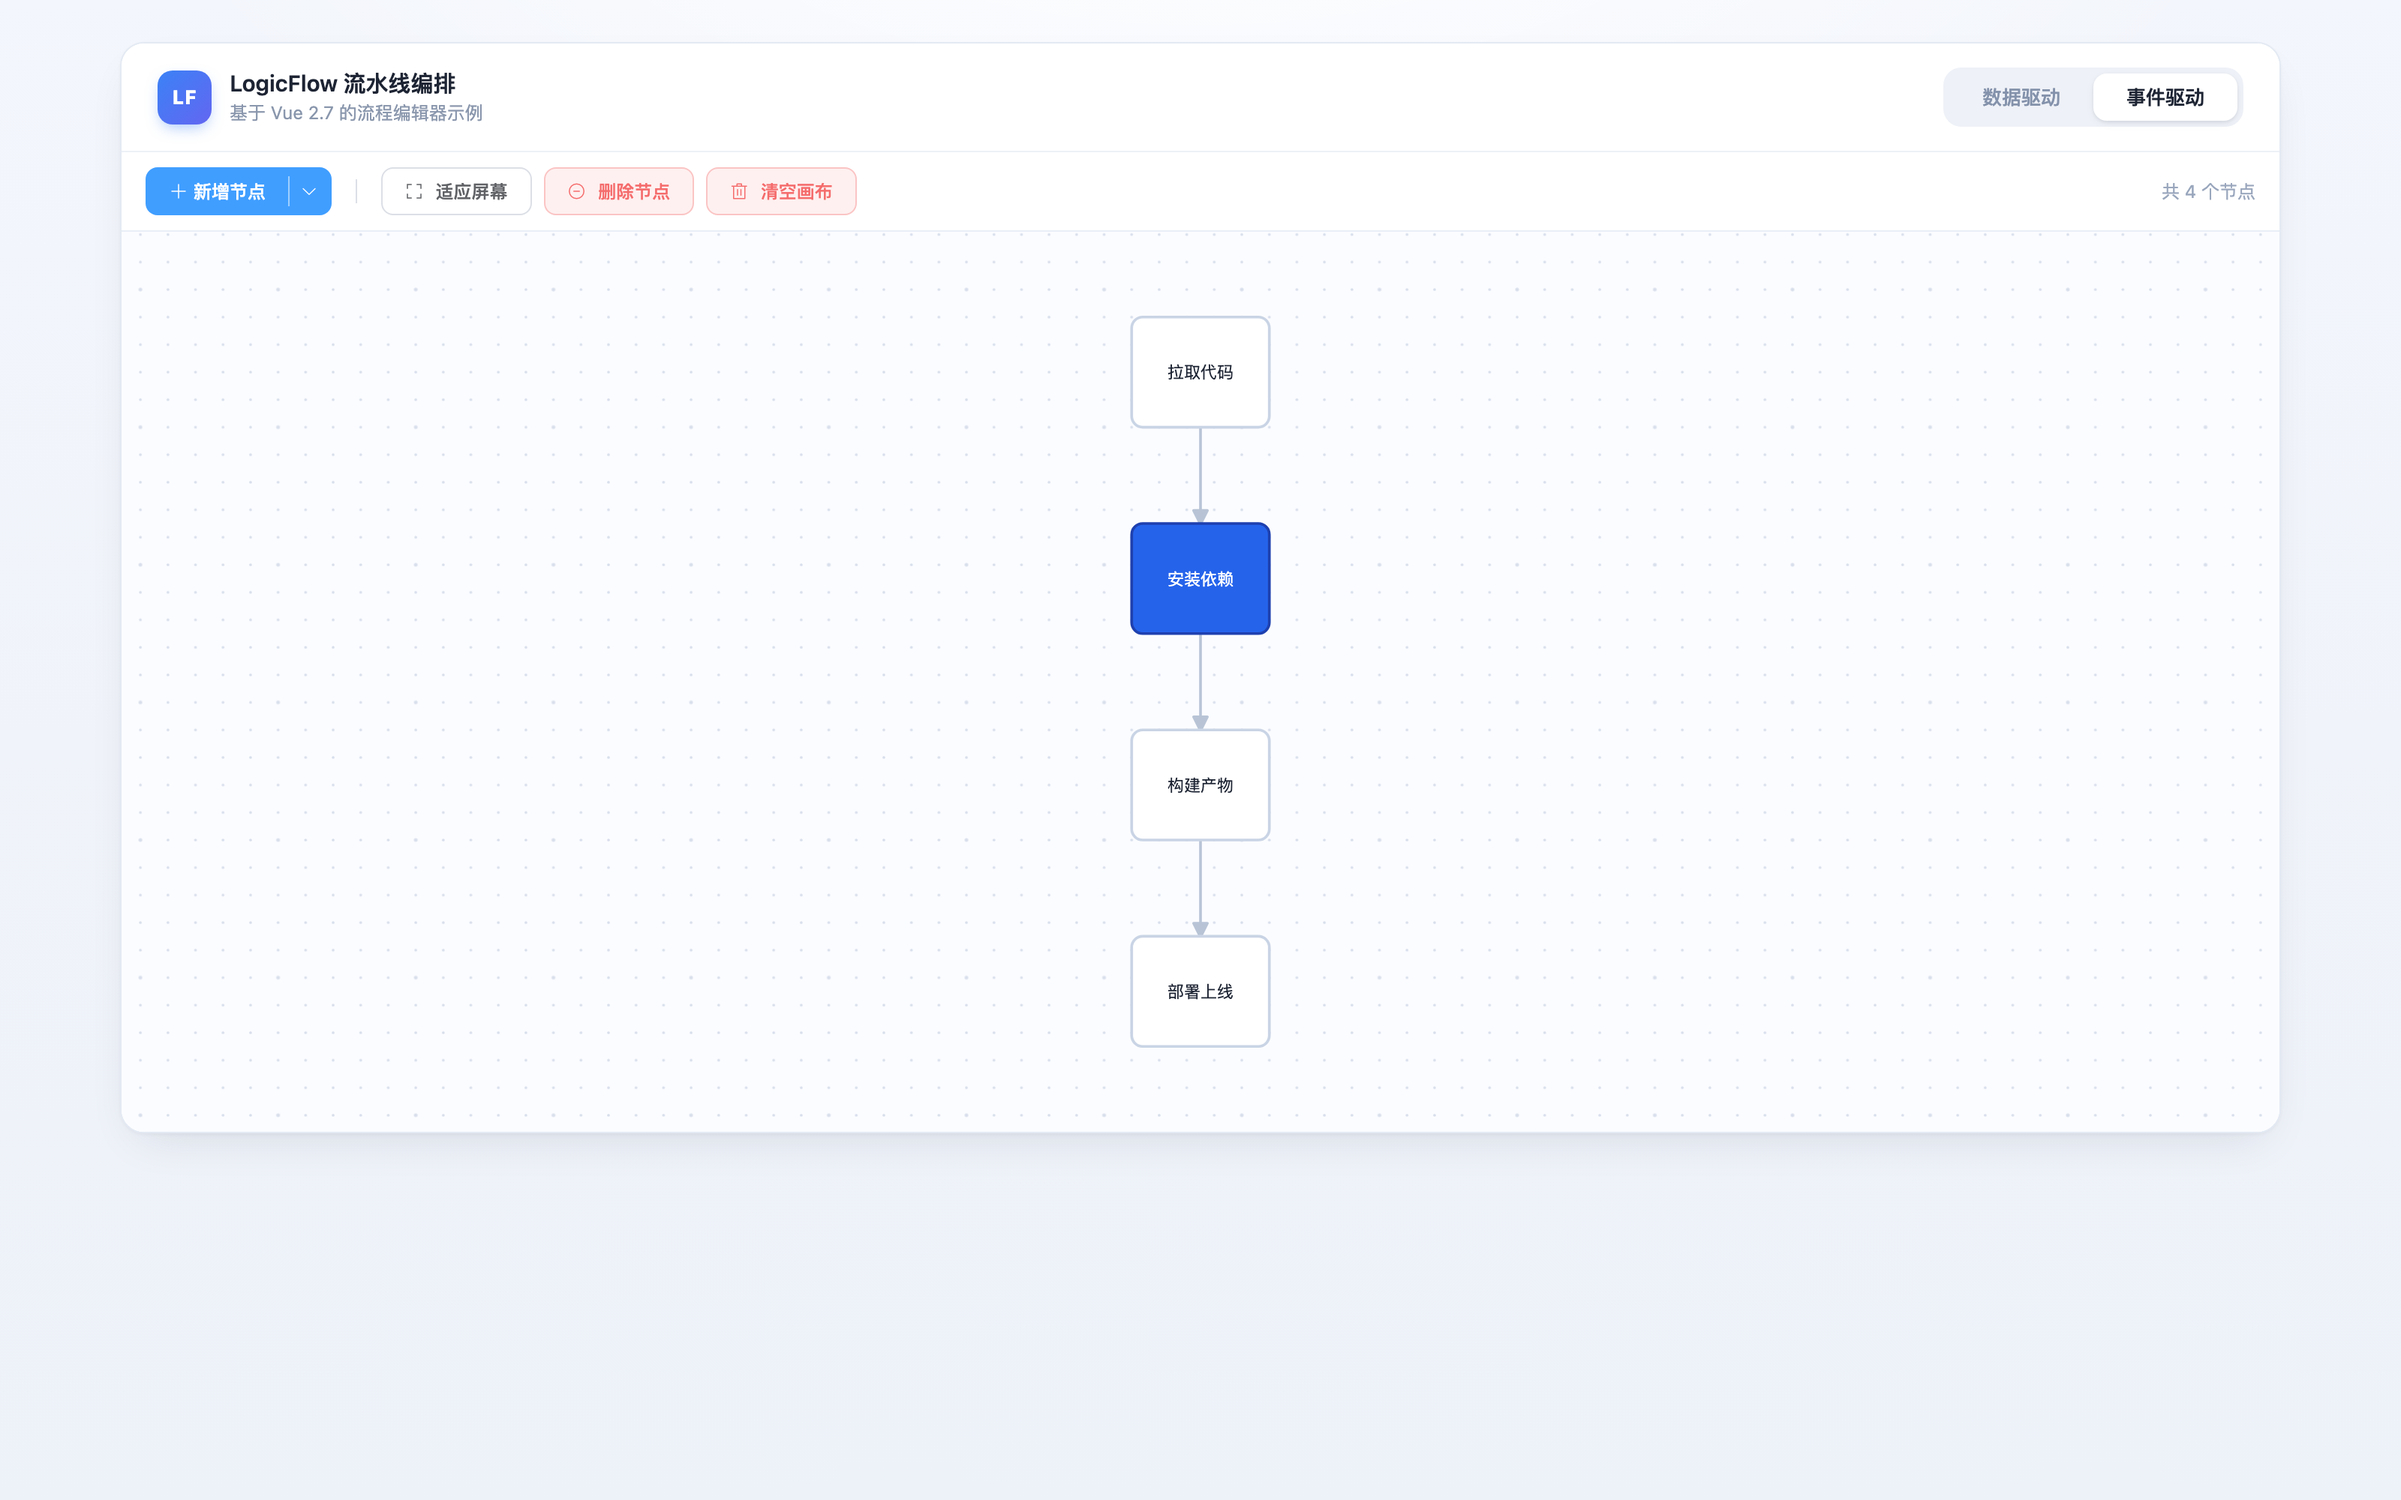
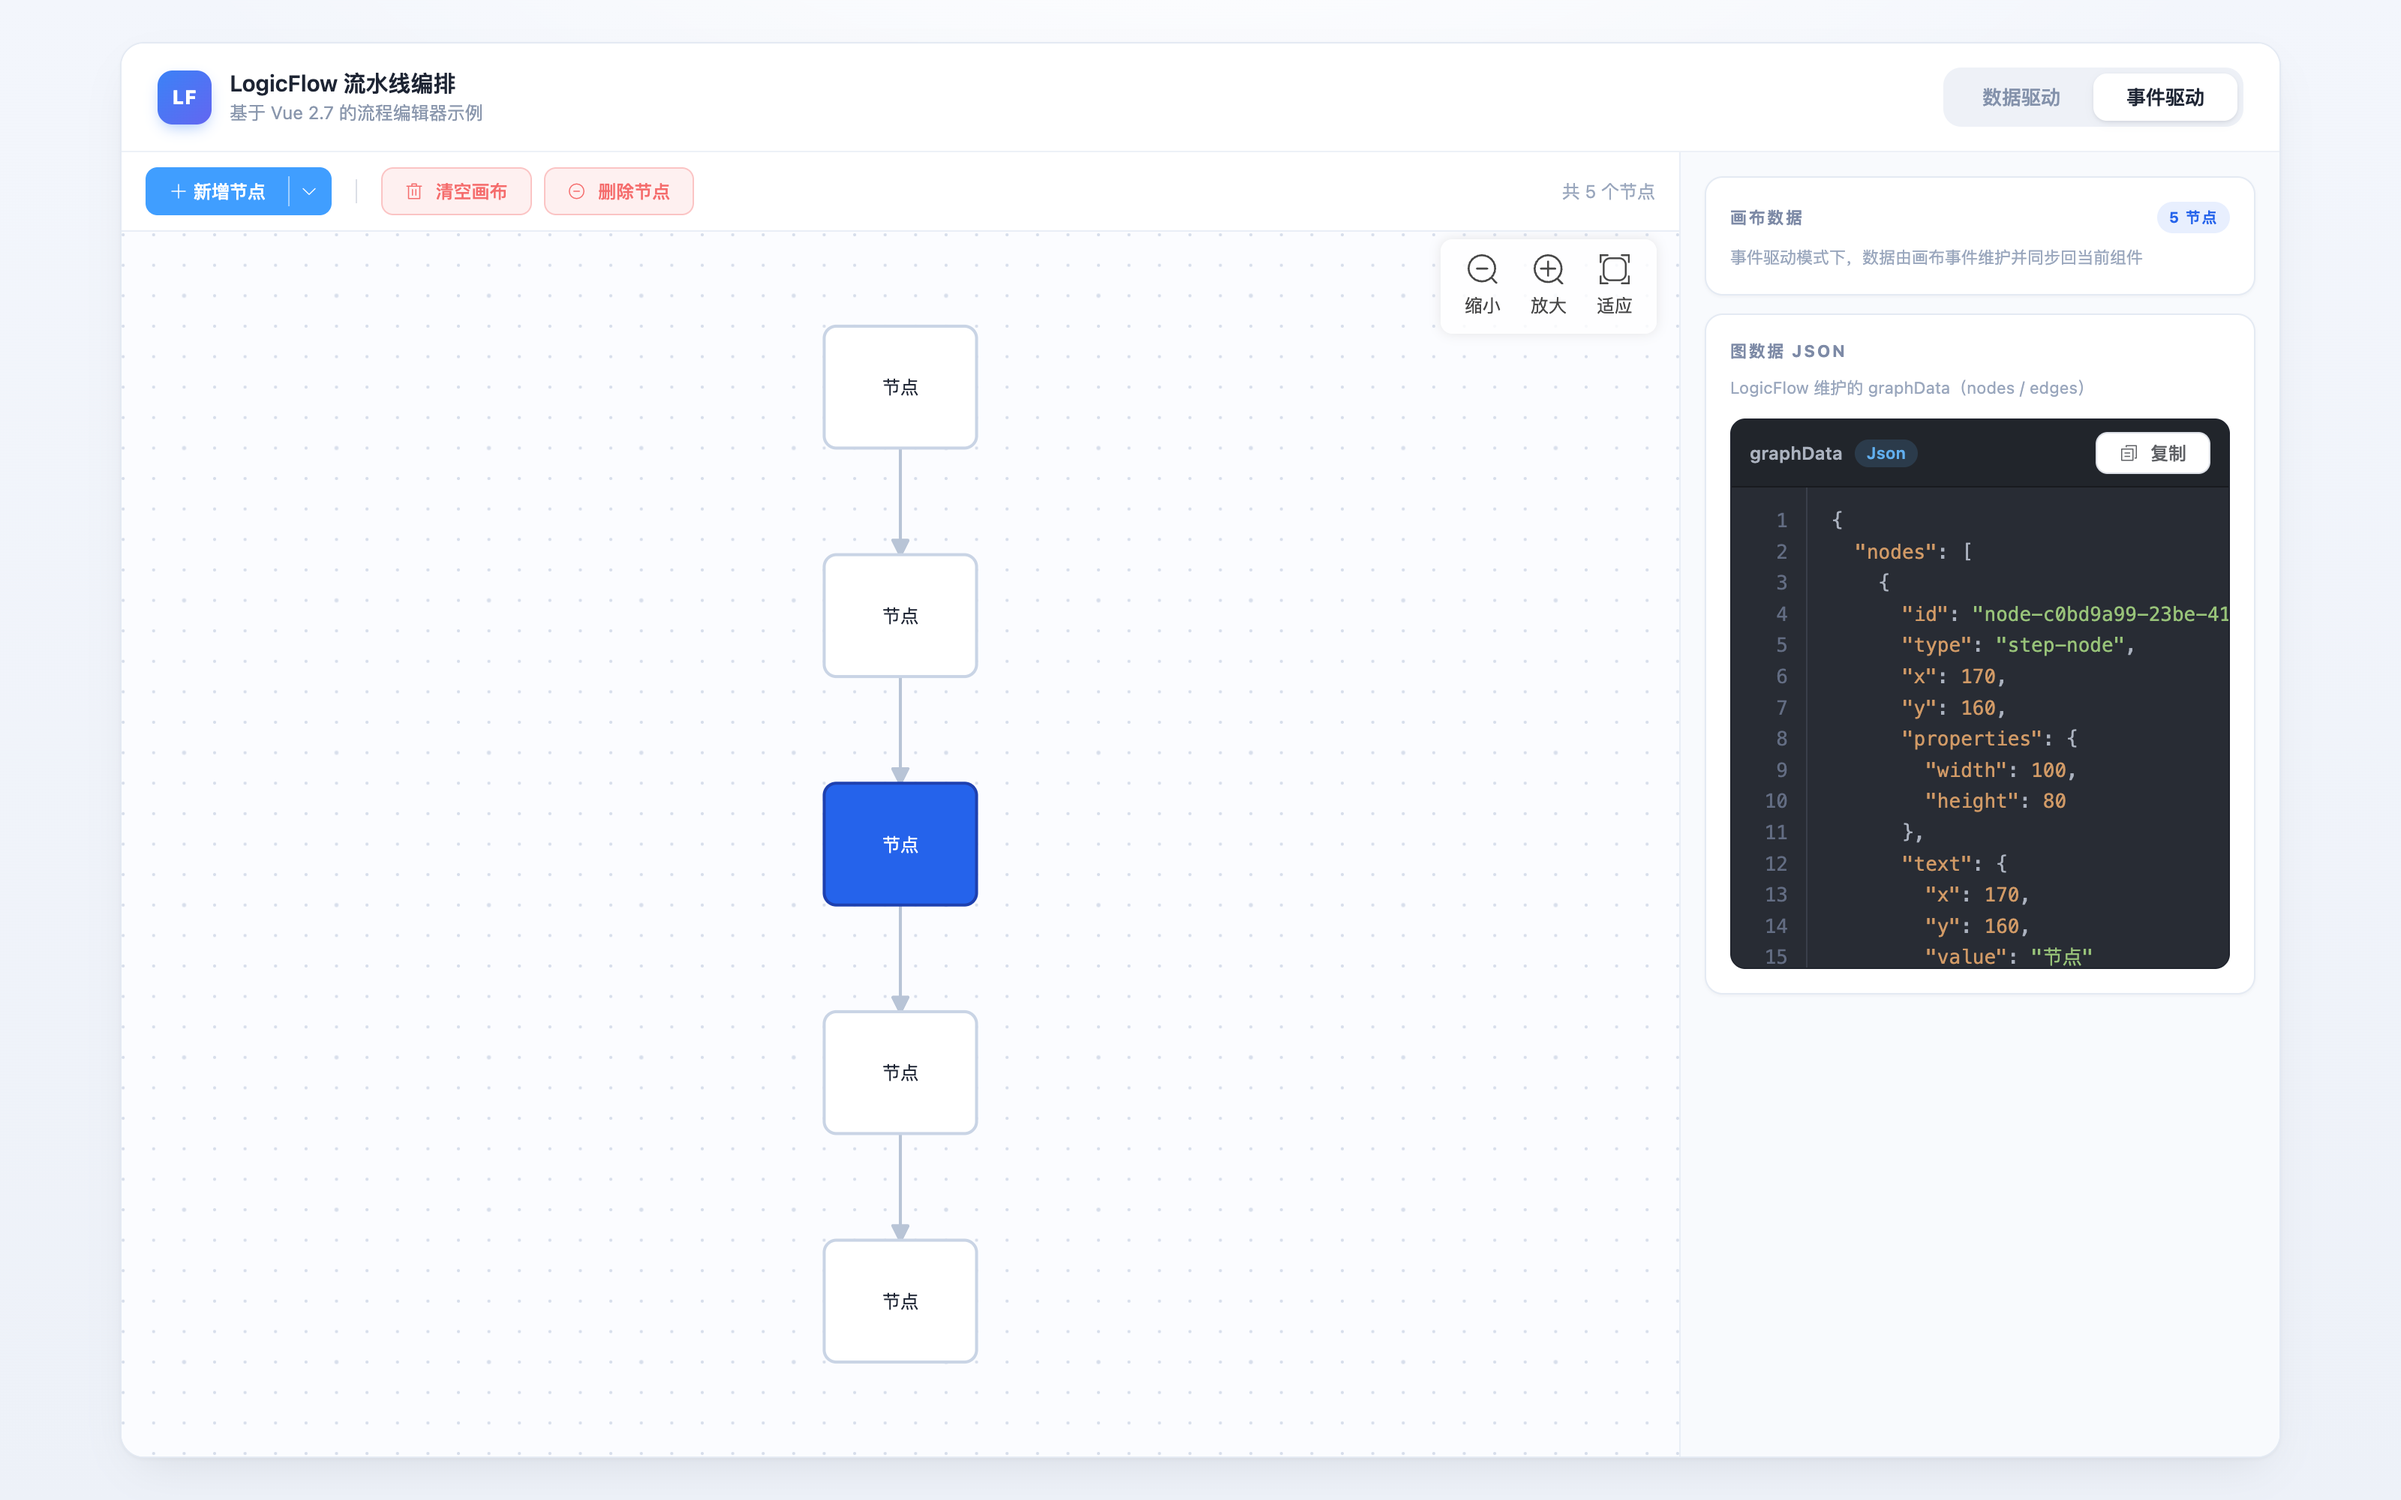
docs: 更新双模式最新界面截图并同步 README
截图覆盖数据驱动选中节点 + nodes JSON、事件驱动 5 节点 + graphData JSON 的核心状态，并补充侧栏 JSON 预览与 Control 控件说明。

diff --git a/README.md b/README.md
@@ -8,9 +8,9 @@
 
 | 数据驱动 | 事件驱动 |
 | -------- | -------- |
-| ![数据驱动模式：业务 nodes 数组派生图结构，侧栏编辑实时同步画布](docs/pipeline-reactive.png) | ![事件驱动模式：直接操作 LogicFlow 图数据模型](docs/pipeline-classic.png) |
+| ![数据驱动模式：业务 nodes 数组派生图结构，选中节点后在侧栏编辑属性并查看 nodes JSON](docs/pipeline-reactive.png) | ![事件驱动模式：通过工具栏直接操作 LogicFlow 图数据模型，侧栏展示 graphData JSON](docs/pipeline-classic.png) |
 
-> 数据驱动模式：业务侧维护 `nodes` 数组，选中节点（蓝色高亮）后可在右侧栏编辑名称并实时同步到画布；事件驱动模式：同一套工具栏直接操作 LogicFlow 底层图数据。
+> 数据驱动模式：业务侧维护 `nodes` 数组，选中「构建产物」（蓝色高亮）后可在右侧栏编辑名称，并实时查看 `nodes` JSON；事件驱动模式：通过工具栏直接创建节点、操作 LogicFlow 底层图数据，右侧栏展示画布维护的 `graphData` JSON。
 
 ## 功能
 
@@ -19,7 +19,8 @@
   - **事件驱动**：直接操作 LogicFlow 底层图数据（节点 / 边模型），通过事件向外通知变更
 - 新增节点：默认追加到末节点下方并自动连线；有选中节点时支持「插到选中节点前 / 后」
 - 删除节点：自动把上游 × 下游交叉桥接，保持图连通
-- 清空画布、适应屏幕（自动 Dagre 布局）
+- 清空画布、适应屏幕（自动 Dagre 布局，Control 插件提供缩放 / 适应控件）
+- 侧栏数据预览：数据驱动展示 `nodes`、事件驱动展示 `graphData`，highlight.js 语法高亮
 - 连线只读：自定义边不可命中，仅作连线展示
 - 选中节点高亮：蓝色填充 + 白色文字，悬停描边高亮
 - 自定义节点 `step-node` 与边 `step-edge`
@@ -29,9 +30,9 @@
 | 类别     | 选型                                                          |
 | -------- | ------------------------------------------------------------- |
 | 框架     | Vue 2.7（当前实现，可低成本迁移 Vue 3）                       |
-| 流程引擎 | [LogicFlow](https://github.com/didi/LogicFlow) 2.x（`@logicflow/core` + `@logicflow/layout` 的 Dagre 布局） |
+| 流程引擎 | [LogicFlow](https://github.com/didi/LogicFlow) 2.x（`@logicflow/core` + `@logicflow/layout` 的 Dagre 布局 + `@logicflow/extension` 的 Control 控件） |
 | 构建工具 | Vite 7                                                        |
-| UI       | Element UI 2.x + Tailwind（`@tailwindcss/postcss7-compat`，类名前缀 `tw-`） |
+| UI       | Element UI 2.x + Tailwind（`@tailwindcss/postcss7-compat`，类名前缀 `tw-`）+ highlight.js |
 | 包管理器 | pnpm                                                          |
 
 ## 环境要求
